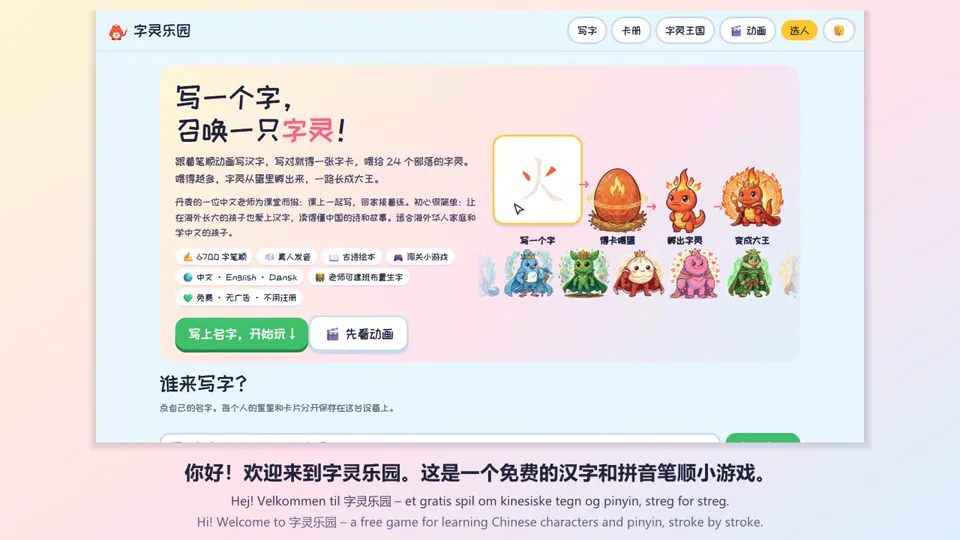
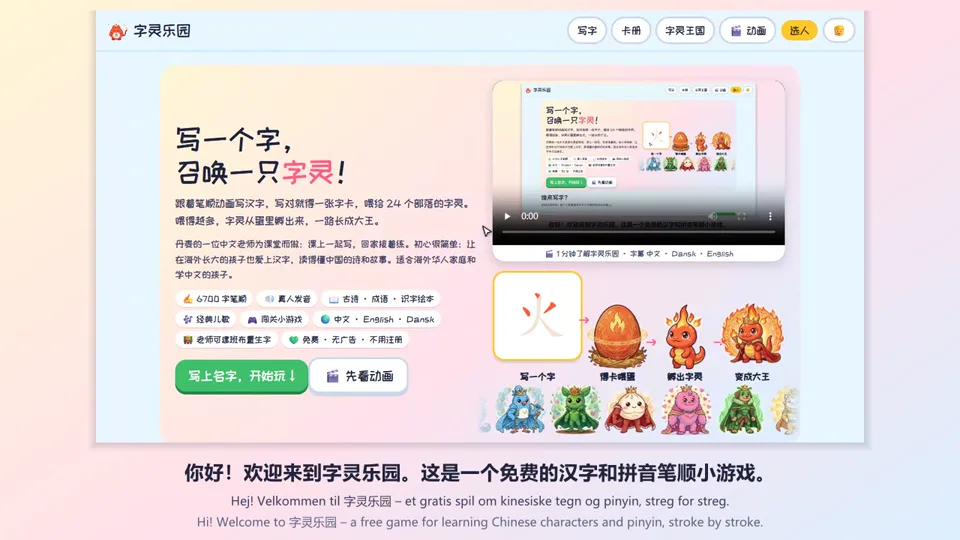
介绍视频第三版（133 秒）：加经典儿歌和繁体切换两段，绘本一段改成一百多本；地址加 ?v=2；sw v47

Changed region(s): [[0.1562, 0.1481, 0.8438, 0.8296]]

diff --git a/index.html b/index.html
@@ -613,14 +613,14 @@ function gradeTabs(cur,attr){return `<div class="tabs" role="tablist">${GRADES.m
 /* ---------- players ---------- */
 const HERO_KINGS=['fire','sea','bird','plant','food','heart','beast','sun','metal','home','grain','mouth','wind','people','jade','cloth'];
 /* 网站介绍视频（三语字幕，1 分钟）：mp4 放在媒体 Worker 的 intro/ 下（_media/zilin-media/intro/，cd media && npx wrangler deploy），封面图在仓库 img/ 里 */
-const INTRO={src:'https://media.danpicbook.com/intro/zilin_intro.mp4',poster:'img/intro_poster.webp'};
-function introVideoHTML(){return `<figure class="hvid"><video controls playsinline preload="none" poster="${INTRO.poster}" src="${INTRO.src}" onplay="stat('f','intro')"></video><figcaption>🎬 1 分钟了解字灵乐园 · 字幕 中文 · Dansk · English</figcaption></figure>`}
+const INTRO={src:'https://media.danpicbook.com/intro/zilin_intro.mp4?v=2',poster:'img/intro_poster.webp?v=2'};
+function introVideoHTML(){return `<figure class="hvid"><video controls playsinline preload="none" poster="${INTRO.poster}" src="${INTRO.src}" onplay="stat('f','intro')"></video><figcaption>🎬 2 分钟了解字灵乐园 · 字幕 中文 · Dansk · English</figcaption></figure>`}
 function showIntro(){$('#mbox').classList.add('wide');$('#mbox').innerHTML=`<video controls autoplay playsinline poster="${INTRO.poster}" src="${INTRO.src}" style="width:100%;border-radius:16px;display:block;background:#000" onplay="stat('f','intro')"></video><div class="mbtns"><button class="big" id="mClose">关闭</button></div>`;$('#modal').classList.add('open');$('#mClose').onclick=closeModal}
 /* 页脚：特别致谢试点学校 */
 function siteFoot(){return `<footer class="sfoot">🙏 特别致谢 · 试点学校 <b>哥本哈根美人鱼中华文化学校</b><br><small>Særlig tak til vores pilotskole · Special thanks to our pilot school</small><br><small><a href="?tw=${TW?0:1}" data-notw onclick="stat('f','tw:${TW?0:1}')">${TW?'切换到简体字':'切換到繁體字（台灣）'}</a></small></footer>`}/* 简繁入口也放页脚，台湾的朋友一眼能看到 */
 function heroHTML(full){
  const parade=`<div class="parade" aria-hidden="true"><div>${[...HERO_KINGS,...HERO_KINGS].map(t=>`<img src="art/tribe_${t}_3.webp" alt="" loading="lazy">`).join('')}</div></div>`;
- if(!full)return `<div class="hero mini">${parade}<button class="introbtn" id="introBtn">🎬 1 分钟了解字灵乐园</button></div>`;
+ if(!full)return `<div class="hero mini">${parade}<button class="introbtn" id="introBtn">🎬 2 分钟了解字灵乐园</button></div>`;
  return `<section class="hero"><div><h1>写一个字，<br>召唤一只<em>字灵</em>！</h1>
   <p>跟着笔顺动画写汉字，写对就得一张字卡，喂给 24 个部落的字灵。喂得越多，字灵从蛋里孵出来，一路长成大王。</p>
   <p style="font-size:16px">丹麦的一位中文老师为课堂而做：课上一起写，回家接着练。初心很简单：让在海外长大的孩子也爱上汉字，读得懂中国的诗和故事。适合海外华人家庭和学中文的孩子。</p>${LOC==='nb'?`<p style="font-size:15px;background:#fff;border-radius:12px;padding:8px 12px">🇳🇴 <b>Norsk prøveversjon:</b> norske forklaringer til alle tegnene og fem bildebøker (静夜思, 春晓, 咏鹅, 守株待兔, 你好你好). <a href="?lang=da">Tilbake til dansk</a></p>`:LOC==='de'?`<p style="font-size:15px;background:#fff;border-radius:12px;padding:8px 12px">🇩🇪 <b>Deutsche Testversion:</b> deutsche Erklärungen zu allen Schriftzeichen und fünf Bilderbücher (静夜思, 春晓, 咏鹅, 守株待兔, 你好你好). <a href="?lang=da">Zurück zu Dänisch</a></p>`:''}

diff --git a/sw.js b/sw.js
@@ -2,7 +2,7 @@
    - 核心文件（页面、字库、字体）首次访问时整体缓存；
    - 笔顺数据 data/ 和语音 audio/ 用到哪个缓存哪个（内容不变，缓存优先）；
    - index.html 走“网络优先”，这样更新后刷新就能拿到新版本。 */
-const VERSION = 'zilin-v46';
+const VERSION = 'zilin-v47';
 const CORE = ['./', 'index.html', 'lib/hanzi-writer.min.js', 'lib/qrcode.min.js',
   'fonts/ZCOOLKuaiLe-sub.woff2', 'fonts/LXGWWenKai-sub.woff2', 'fonts/Andika-Regular-sub.woff2', 'fonts/Andika-Bold-sub.woff2',
   'manifest.webmanifest', 'icon.svg', 'icon-192.png', 'icon-512.png'];
